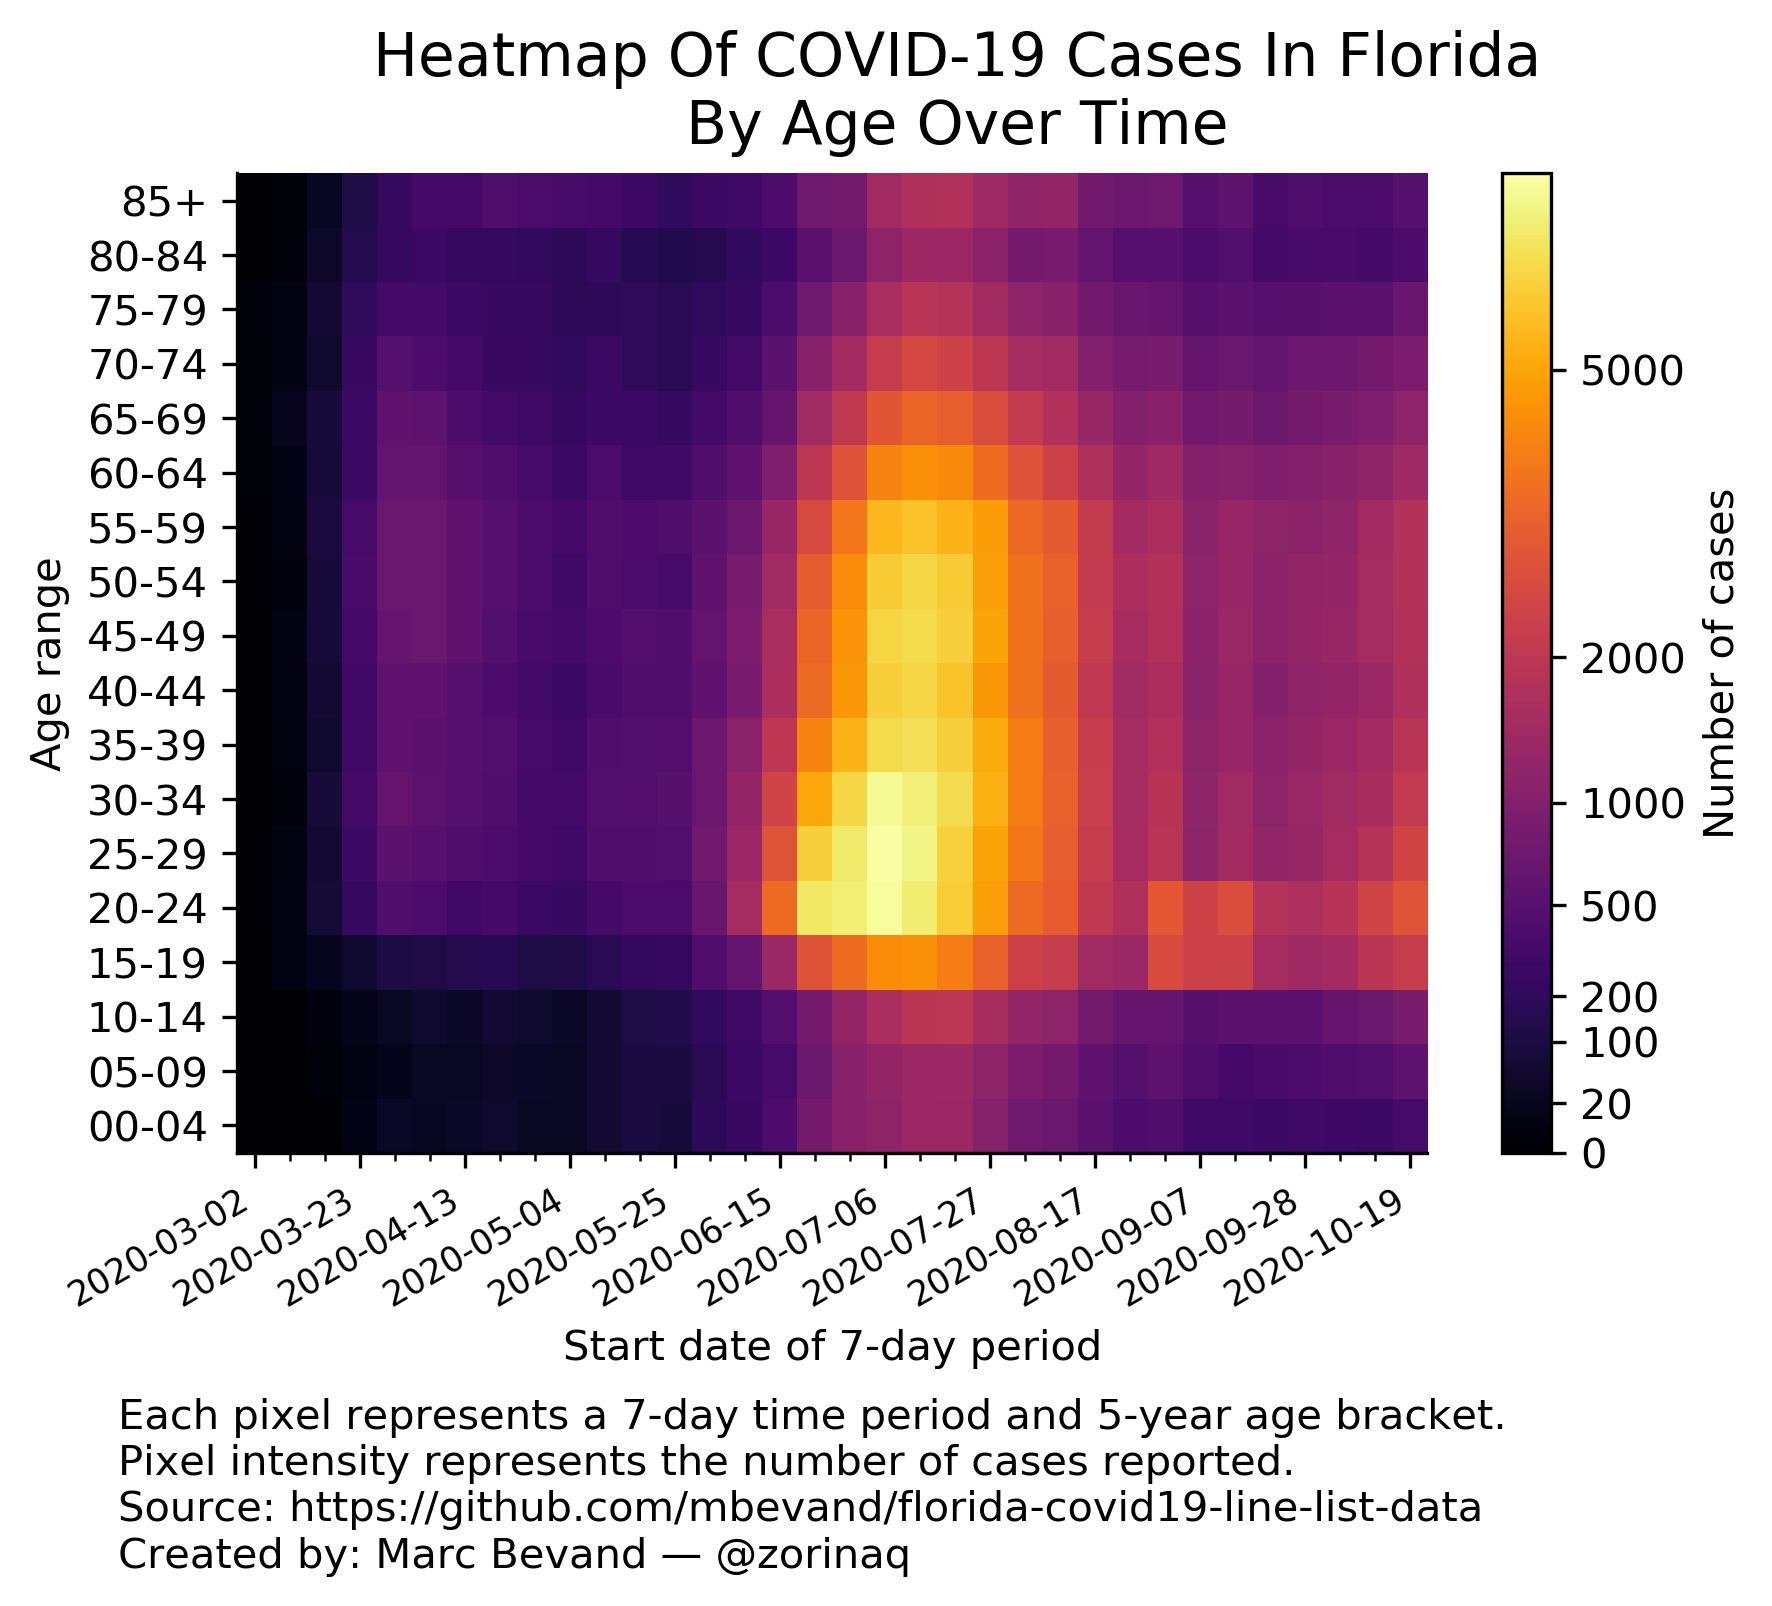
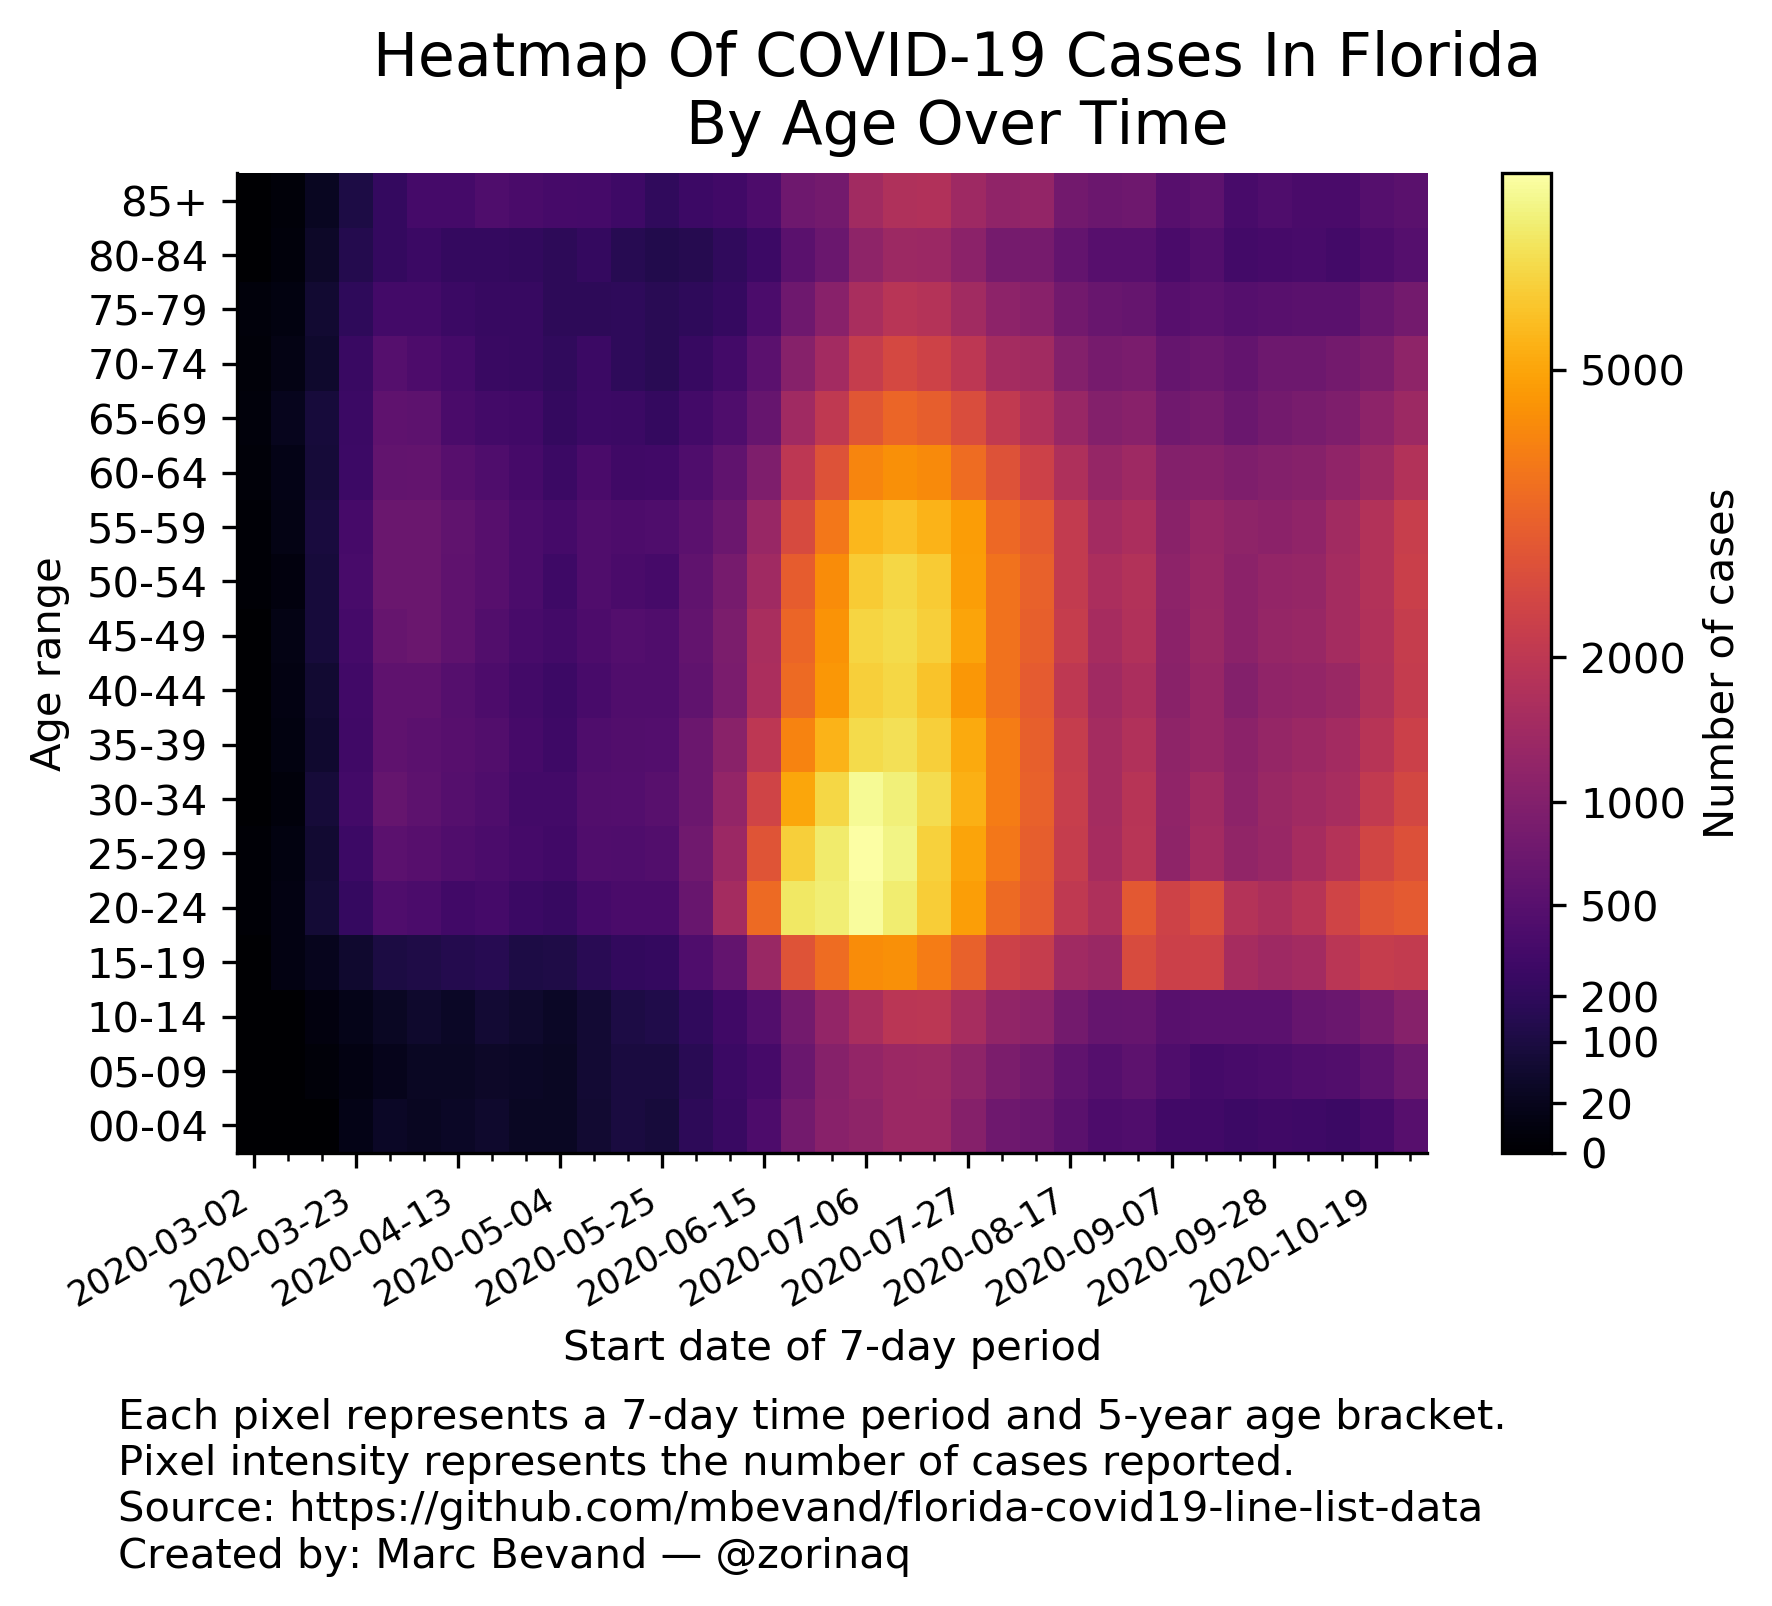
update heatmaps

diff --git a/README.md b/README.md
@@ -1,6 +1,6 @@
 # Forecasting deaths and analyzing age trends of COVID-19 cases in Florida
 
-*Updated: 26 Oct 2020*
+*Updated: 03 Nov 2020*
 
 Author: Marc Bevand
 
@@ -388,44 +388,45 @@ It creates various heatmaps of cases by age over time:
 
 ```
 $ ./heatmap.py
-Opening data_fdoh/2020-10-26-07-47-09.csv.gz
+Opening data_fdoh/2020-11-02-10-03-30.csv.gz
 Number of COVID-19 cases per 7-day time period in Florida by age bracket over time:
 period_start, 00-04, 05-09, 10-14, 15-19, 20-24, 25-29, 30-34, 35-39, 40-44, 45-49, 50-54, 55-59, 60-64, 65-69, 70-74, 75-79, 80-84, 85+, median_age
   2020-03-02,     0,     0,     0,     0,     1,     1,     0,     0,     0,     0,     1,     1,     2,     3,     2,     3,     0,     0,  65.5
   2020-03-09,     0,     0,     0,     8,     9,     6,     3,     7,     8,    10,     5,    10,    13,    21,    11,     6,     4,     2,  57.0
   2020-03-16,     0,     2,     5,    22,    74,    63,    80,    55,    62,    83,    84,    90,    78,    87,    52,    60,    42,    29,  52.0
   2020-03-23,    13,     8,    15,    55,   240,   284,   323,   306,   318,   341,   373,   355,   283,   268,   262,   194,   146,   108,  50.0
-  2020-03-30,    37,    18,    32,   107,   419,   548,   641,   572,   583,   669,   706,   702,   616,   572,   484,   334,   222,   226,  50.0
+  2020-03-30,    37,    18,    32,   107,   419,   548,   641,   572,   583,   669,   706,   701,   616,   572,   484,   334,   222,   226,  50.0
   2020-04-06,    29,    31,    49,   116,   391,   496,   560,   539,   581,   699,   697,   699,   635,   563,   407,   323,   266,   339,  51.0
   2020-04-13,    36,    31,    36,   139,   314,   434,   474,   497,   477,   572,   582,   591,   494,   383,   341,   273,   228,   346,  50.0
-  2020-04-20,    51,    41,    68,   155,   337,   395,   427,   449,   407,   458,   497,   491,   416,   327,   261,   243,   227,   427,  50.0
+  2020-04-20,    51,    41,    68,   155,   337,   395,   427,   449,   407,   457,   497,   491,   416,   327,   261,   243,   227,   427,  50.0
   2020-04-27,    31,    35,    52,   112,   264,   337,   330,   349,   327,   366,   391,   395,   355,   319,   248,   247,   219,   381,  52.0
-  2020-05-04,    31,    31,    36,   117,   243,   319,   335,   299,   283,   334,   300,   346,   267,   227,   204,   188,   188,   352,  50.0
+  2020-05-04,    31,    31,    36,   117,   243,   314,   329,   296,   281,   328,   296,   343,   266,   227,   204,   188,   188,   352,  50.0
   2020-05-11,    59,    65,    66,   168,   346,   437,   453,   429,   370,   405,   431,   441,   377,   277,   267,   189,   225,   343,  48.0
   2020-05-18,   100,    95,   114,   217,   386,   419,   465,   447,   431,   472,   377,   411,   307,   274,   192,   194,   163,   292,  45.0
-  2020-05-25,    84,    94,   128,   224,   387,   454,   505,   460,   440,   430,   358,   429,   313,   229,   172,   164,   130,   201,  42.0
+  2020-05-25,    84,    94,   128,   224,   387,   454,   505,   459,   440,   430,   358,   429,   313,   229,   172,   164,   130,   201,  42.0
   2020-06-01,   190,   172,   210,   424,   676,   764,   719,   720,   589,   626,   589,   547,   425,   326,   244,   193,   152,   282,  40.0
-  2020-06-08,   259,   269,   305,   625,  1535,  1370,  1249,  1101,   900,   910,   848,   721,   590,   429,   331,   233,   208,   315,  37.0
-  2020-06-15,   414,   349,   452,  1361,  3492,  2916,  2434,  1997,  1643,  1623,  1446,  1334,   962,   671,   546,   399,   275,   405,  34.0
-  2020-06-22,   806,   698,   803,  2875,  6866,  6145,  5037,  4162,  3494,  3379,  3146,  2623,  2006,  1469,  1064,   757,   527,   763,  35.0
-  2020-06-29,  1086,  1071,  1248,  3543,  7094,  6970,  6337,  5373,  4637,  4561,  4378,  3842,  2867,  2079,  1500,  1089,   699,   819,  36.0
-  2020-07-06,  1172,  1245,  1632,  4357,  7693,  7823,  7524,  6462,  6140,  6276,  6028,  5492,  4174,  2952,  2179,  1612,  1179,  1486,  39.0
-  2020-07-13,  1371,  1380,  1928,  4468,  7014,  7287,  7163,  6637,  6367,  6431,  6350,  5731,  4491,  3383,  2571,  1913,  1395,  1719,  41.0
-  2020-07-20,  1376,  1404,  1980,  3997,  6048,  6193,  6485,  6144,  5810,  6122,  5999,  5411,  4319,  3199,  2385,  1826,  1384,  1762,  41.0
-  2020-07-27,  1045,  1190,  1598,  3276,  4853,  4970,  5271,  5128,  4668,  5005,  4839,  4796,  3562,  2701,  1996,  1472,  1140,  1439,  42.0
-  2020-08-03,   756,   910,  1224,  2359,  3517,  3831,  3978,  3992,  3716,  3734,  3702,  3473,  2855,  2111,  1541,  1153,   826,  1212,  42.0
-  2020-08-10,   706,   804,  1168,  2184,  3134,  3178,  3281,  3247,  3130,  3212,  3284,  3100,  2362,  1774,  1485,  1099,   847,  1243,  43.0
-  2020-08-17,   528,   590,   808,  1453,  2057,  2199,  2237,  2191,  2020,  2182,  2133,  2126,  1700,  1317,  1016,   788,   635,   786,  43.0
-  2020-08-24,   402,   480,   642,  1350,  1704,  1568,  1530,  1526,  1466,  1576,  1642,  1501,  1284,  1012,   850,   675,   502,   724,  43.0
-  2020-08-31,   432,   554,   664,  2668,  3050,  1908,  1885,  1768,  1643,  1765,  1789,  1652,  1435,  1090,   888,   649,   498,   748,  38.0
-  2020-09-07,   322,   426,   517,  2333,  2378,  1193,  1202,  1178,  1122,  1139,  1152,  1122,  1020,   770,   641,   492,   387,   502,  37.0
-  2020-09-14,   320,   341,   545,  2347,  2697,  1499,  1458,  1305,  1307,  1349,  1316,  1296,  1043,   827,   701,   550,   451,   556,  37.0
-  2020-09-21,   284,   366,   547,  1566,  1818,  1239,  1169,  1140,  1019,  1145,  1142,  1186,   963,   700,   630,   477,   327,   367,  39.0
-  2020-09-28,   307,   392,   538,  1425,  1683,  1338,  1348,  1283,  1208,  1275,  1247,  1139,  1028,   822,   732,   510,   352,   416,  40.0
-  2020-10-05,   295,   431,   668,  1520,  1891,  1562,  1469,  1384,  1253,  1323,  1287,  1214,  1074,   881,   743,   533,   370,   376,  39.0
-  2020-10-12,   266,   447,   690,  1951,  2421,  1826,  1606,  1521,  1348,  1527,  1530,  1480,  1195,   956,   818,   532,   326,   384,  38.0
-  2020-10-19,   360,   564,   871,  2193,  2925,  2471,  2099,  1896,  1731,  1775,  1793,  1783,  1422,  1154,   907,   685,   410,   485,  38.0
-(Last period's data may be incomplete. Age unknown for 1055 out of 782013 cases.)
+  2020-06-08,   259,   269,   305,   625,  1535,  1370,  1249,  1101,   900,   909,   847,   720,   590,   429,   331,   233,   208,   315,  37.0
+  2020-06-15,   413,   349,   452,  1361,  3492,  2916,  2434,  1997,  1643,  1623,  1446,  1334,   962,   671,   546,   399,   275,   406,  34.0
+  2020-06-22,   806,   698,   803,  2875,  6866,  6145,  5035,  4162,  3494,  3379,  3146,  2623,  2006,  1469,  1064,   757,   527,   762,  35.0
+  2020-06-29,  1086,  1071,  1248,  3541,  7094,  6970,  6337,  5373,  4637,  4559,  4377,  3841,  2867,  2079,  1500,  1089,   699,   819,  36.0
+  2020-07-06,  1172,  1245,  1632,  4357,  7693,  7822,  7521,  6462,  6140,  6276,  6027,  5492,  4174,  2952,  2178,  1613,  1179,  1486,  39.0
+  2020-07-13,  1371,  1380,  1928,  4467,  7014,  7287,  7164,  6633,  6367,  6430,  6349,  5731,  4490,  3383,  2569,  1913,  1395,  1719,  41.0
+  2020-07-20,  1375,  1404,  1979,  3997,  6047,  6193,  6485,  6143,  5810,  6121,  5999,  5410,  4318,  3199,  2384,  1826,  1384,  1762,  41.0
+  2020-07-27,  1046,  1189,  1599,  3275,  4853,  4968,  5270,  5127,  4667,  5005,  4839,  4793,  3562,  2700,  1995,  1472,  1140,  1439,  42.0
+  2020-08-03,   756,   910,  1222,  2359,  3517,  3830,  3977,  3992,  3716,  3734,  3702,  3472,  2854,  2111,  1541,  1152,   825,  1212,  42.0
+  2020-08-10,   706,   804,  1168,  2185,  3132,  3178,  3279,  3247,  3129,  3211,  3282,  3097,  2362,  1773,  1486,  1099,   846,  1242,  43.0
+  2020-08-17,   528,   590,   808,  1453,  2057,  2198,  2236,  2191,  2020,  2182,  2132,  2125,  1700,  1317,  1016,   787,   635,   786,  43.0
+  2020-08-24,   402,   480,   642,  1350,  1703,  1568,  1529,  1526,  1465,  1576,  1642,  1500,  1284,  1012,   850,   675,   502,   724,  43.0
+  2020-08-31,   432,   554,   664,  2668,  3049,  1908,  1883,  1768,  1642,  1763,  1789,  1652,  1435,  1090,   888,   649,   498,   747,  38.0
+  2020-09-07,   322,   426,   517,  2333,  2378,  1192,  1201,  1178,  1122,  1138,  1152,  1122,  1020,   769,   641,   492,   387,   502,  37.0
+  2020-09-14,   320,   341,   545,  2347,  2696,  1499,  1458,  1303,  1307,  1348,  1316,  1295,  1043,   827,   701,   550,   451,   556,  37.0
+  2020-09-21,   284,   366,   547,  1566,  1818,  1238,  1167,  1139,  1019,  1145,  1142,  1185,   963,   700,   629,   477,   325,   367,  39.0
+  2020-09-28,   307,   392,   538,  1424,  1683,  1338,  1347,  1281,  1208,  1274,  1246,  1139,  1028,   821,   732,   510,   352,   416,  40.0
+  2020-10-05,   295,   430,   668,  1520,  1891,  1561,  1469,  1384,  1252,  1321,  1286,  1215,  1074,   881,   743,   532,   370,   376,  39.0
+  2020-10-12,   265,   447,   690,  1948,  2419,  1827,  1605,  1522,  1349,  1525,  1531,  1480,  1194,   955,   818,   530,   325,   383,  38.0
+  2020-10-19,   354,   561,   861,  2183,  2925,  2457,  2098,  1889,  1728,  1771,  1790,  1777,  1412,  1150,   904,   682,   410,   481,  38.0
+  2020-10-26,   497,   728,  1072,  2126,  3068,  2829,  2530,  2326,  2149,  2202,  2295,  2240,  1790,  1413,  1176,   822,   487,   527,  39.0
+(Last period's data may be incomplete. Age unknown for 1073 out of 812063 cases.)
 ```
 
 By default the size of each pixel, or *bucket*, is 5-year age brackets and 7-day
